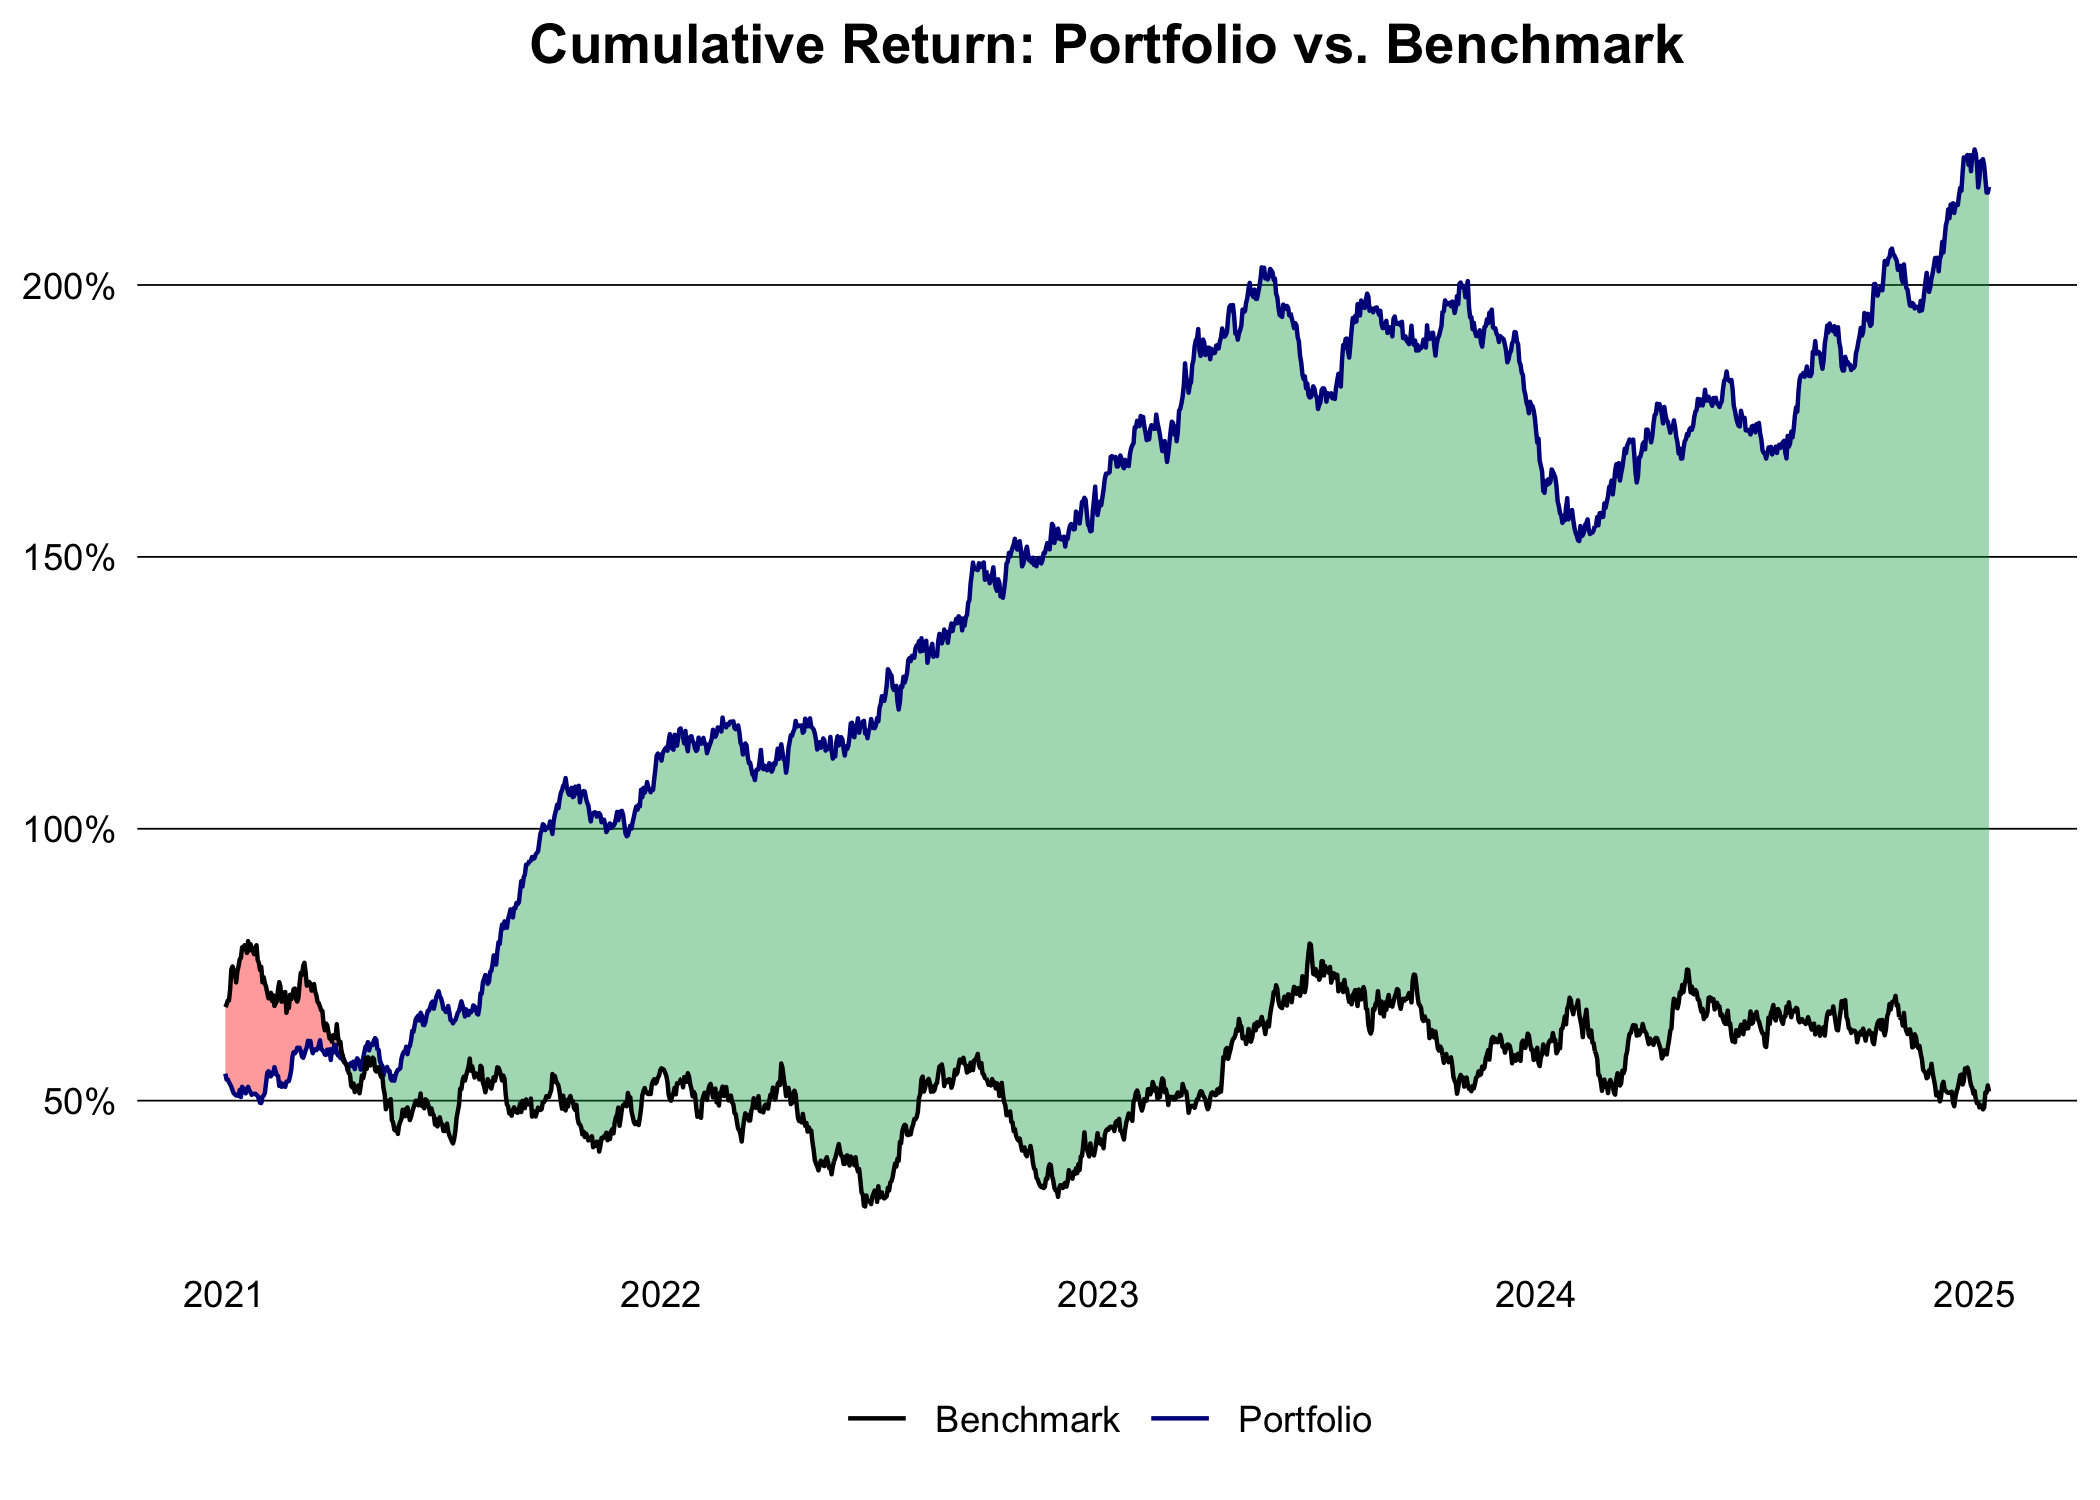
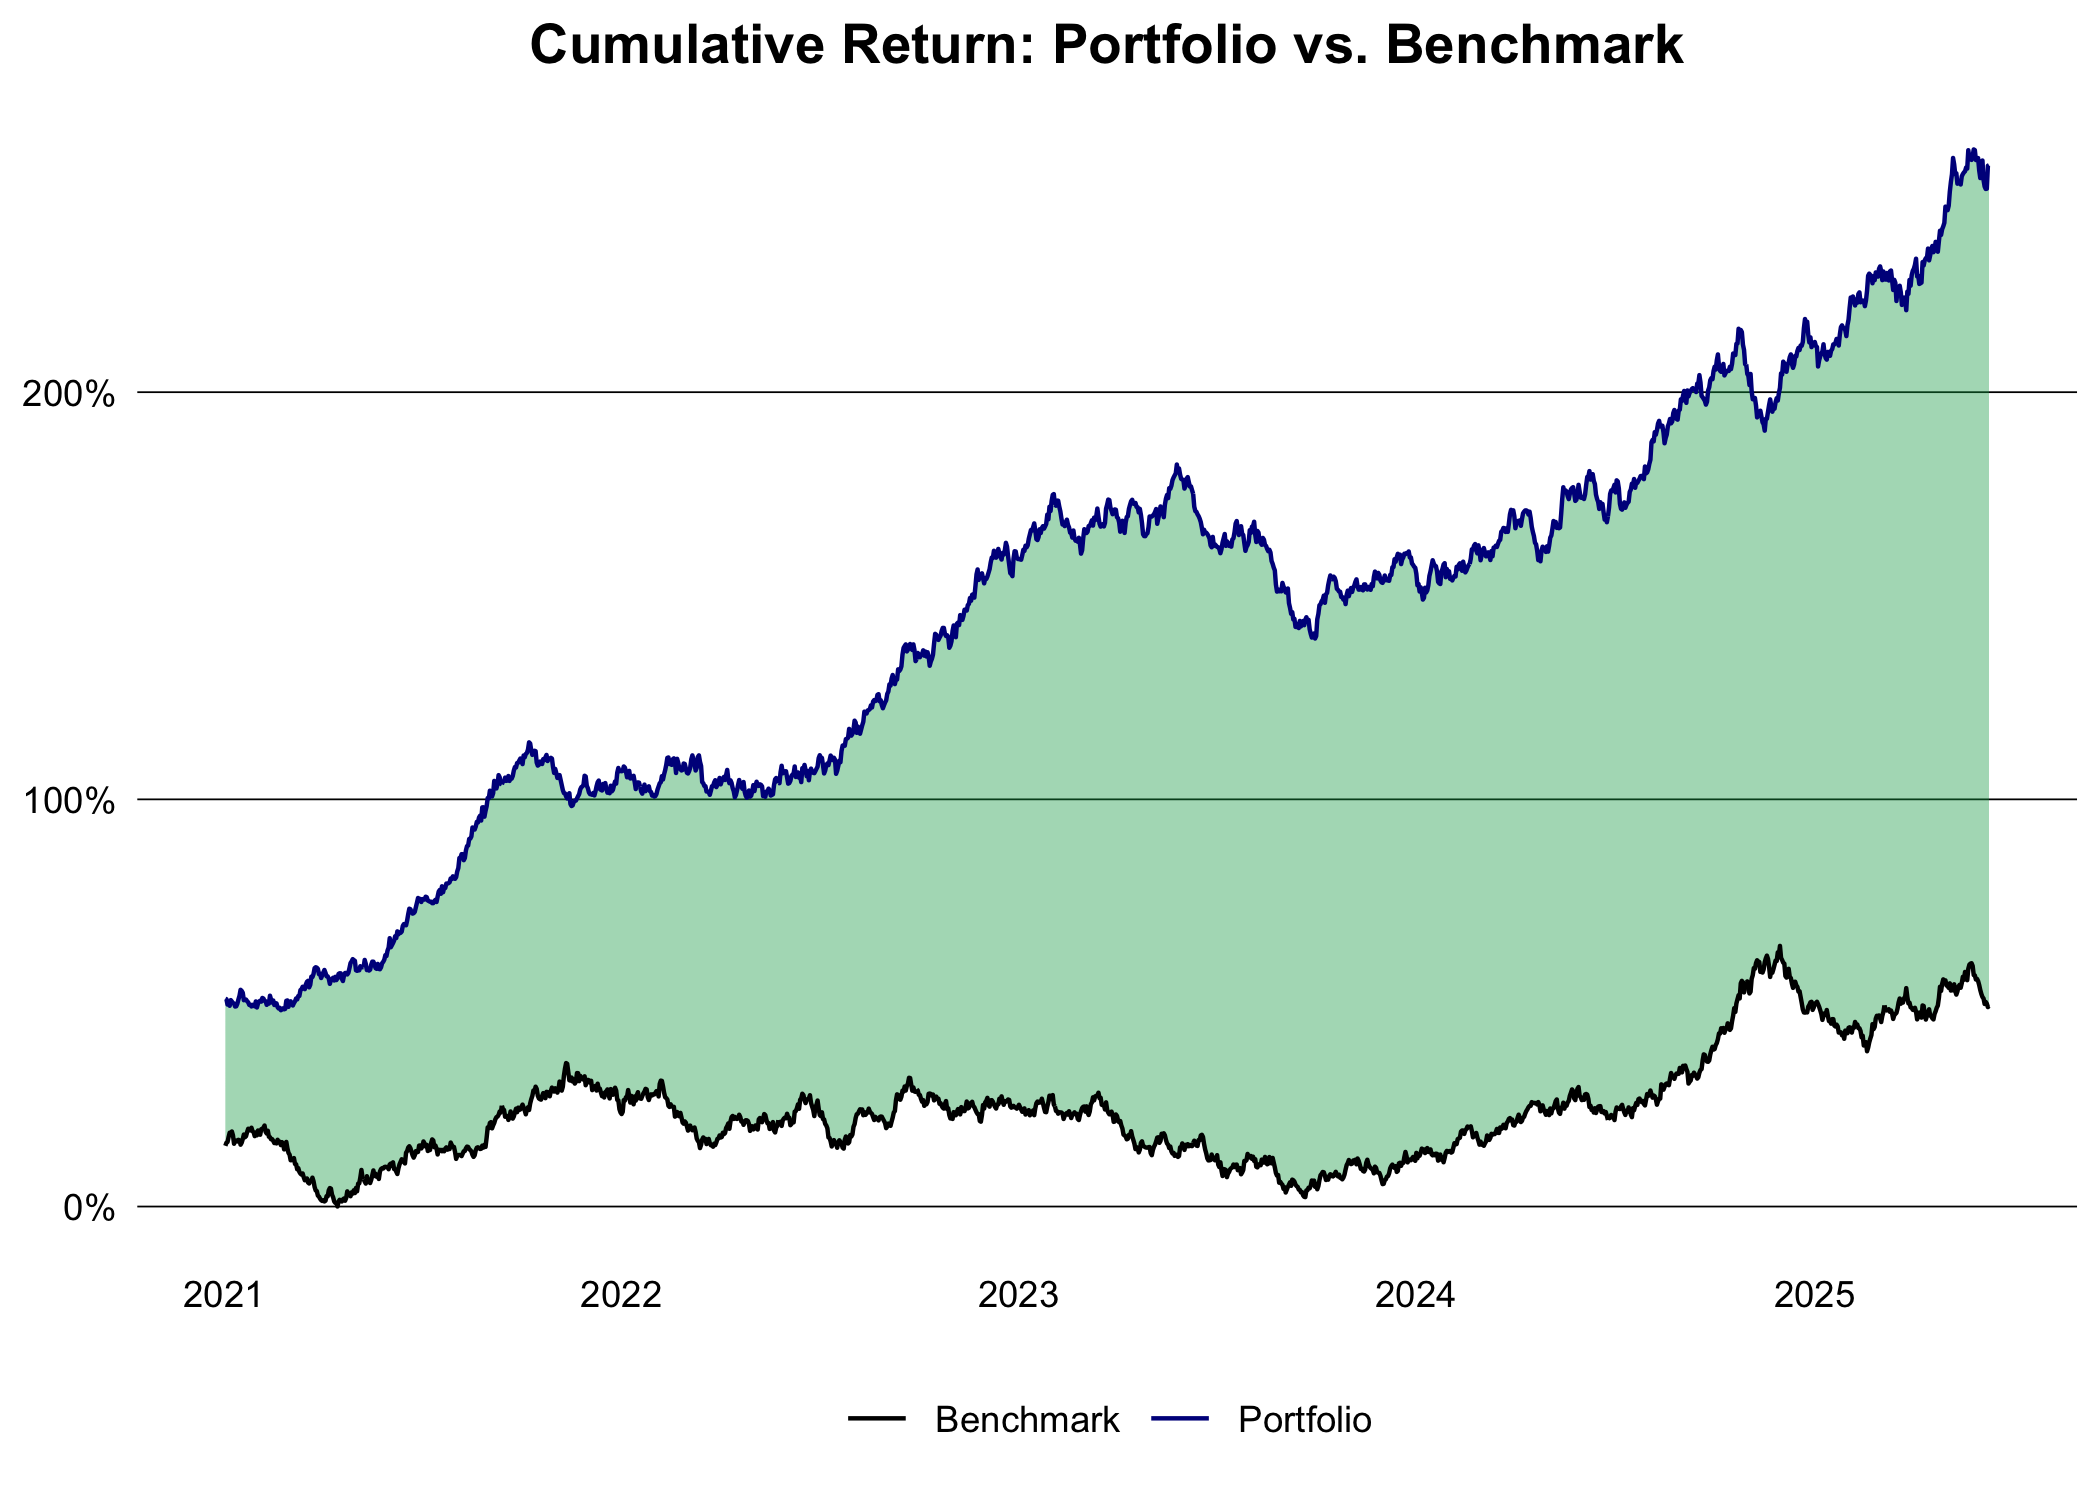
chore: clean-up

diff --git a/README.md b/README.md
@@ -21,7 +21,7 @@ Generate some fake stock prices for a few tickers.
 set.seed(1994)
 
 generate_prices <- function(ticker, start_date, end_date) {
-  dates <- seq.Date(as.Date(start_date), as.Date(end_date), by = "days")
+  dates <- seq(as.Date(start_date), as.Date(end_date), by = "1 day")
   n <- length(dates)
   prices <- cumprod(1 + rnorm(n, mean = 0.0005, sd = 0.01)) * 100
   data.table(
@@ -32,7 +32,7 @@ generate_prices <- function(ticker, start_date, end_date) {
 }
 
 generate_benchmark <- function(start_date, end_date) {
-  dates <- seq.Date(as.Date(start_date), as.Date(end_date), by = "days")
+  dates <- seq(as.Date(start_date), as.Date(end_date), by = "1 day")
   n <- length(dates)
   prices <- cumprod(1 + rnorm(n, mean = 0.0003, sd = 0.008)) * 3000
   data.table(
@@ -46,7 +46,7 @@ ticker <- c("AAPL", "GOOGL", "MSFT", "AMZN")
 start_date <- "2015-01-01"
 end_date <- Sys.Date()
 
-dt <- lapply(ticker, generate_prices, start_date, end_date) |> rbindlist()
+dt <- rbindlist(lapply(ticker, generate_prices, start_date, end_date))
 alloc <- data.table(
   ticker = ticker,
   weight = c(0.4, 0.3, 0.2, 0.1),
@@ -152,12 +152,12 @@ head(port_ret_year)
 
         year         ret
        <int>       <num>
-    1:  2015  0.21730363
-    2:  2016  0.14672385
-    3:  2017  0.08923894
-    4:  2018  0.09766598
-    5:  2019 -0.21240290
-    6:  2020  0.16825878
+    1:  2015  0.11197525
+    2:  2016  0.23505665
+    3:  2017  0.09765000
+    4:  2018 -0.04271348
+    5:  2019 -0.14353103
+    6:  2020  0.21490787
 
 #### Compare performance with a benchmark
 
@@ -174,7 +174,7 @@ port <- dt |>
   rbind(bmr[, .(ticker, date, ret)]) |>
   setorder(ticker, date) |>
   _[, cum_ret := cumprod(1 + ret) - 1, by = ticker] |>
-  _[, ticker := fifelse(ticker == "Portfolio", ticker, "Benchmark")]
+  _[, ticker := replace(ticker, ticker != "Portfolio", "Benchmark")]
 ```
 
 Compare the portfolio with the benchmark performance:
@@ -246,10 +246,14 @@ perf |>
 
 ``` r
 perf |>
-  _[date >= "2022-01-10", .(
-    benchmark = last(benchmark) - first(benchmark),
-    portfolio = last(portfolio) - first(portfolio)
-  ), by = .(year(date))]
+  _[
+    date >= "2022-01-10",
+    .(
+      benchmark = last(benchmark) - first(benchmark),
+      portfolio = last(portfolio) - first(portfolio)
+    ),
+    by = .(year(date))
+  ]
 ```
 
 #### Analyse the portfolio exposure
@@ -297,7 +301,7 @@ port_risk <- as.numeric(sqrt(t(wgt) %*% cov_mat %*% wgt))
 port_risk
 ```
 
-    [1] 0.005584329
+    [1] 0.00541362
 
 #### Drawdown
 
@@ -343,14 +347,14 @@ drawdown <- dt |>
 head(drawdown)
 ```
 
-             date         wret     cum_ret     drawdown
-           <Date>        <num>       <num>        <num>
-    1: 2015-01-02  0.003214273 0.003214273  0.000000000
-    2: 2015-01-03  0.013832220 0.017090954  0.000000000
-    3: 2015-01-04  0.005712519 0.022901105  0.000000000
-    4: 2015-01-05  0.004228235 0.027226172  0.000000000
-    5: 2015-01-06 -0.006150852 0.020907856 -0.006318316
-    6: 2015-01-07  0.003680844 0.024665659 -0.002560513
+             date          wret      cum_ret      drawdown
+           <Date>         <num>        <num>         <num>
+    1: 2015-01-02 -0.0028002676 -0.002800268  0.0000000000
+    2: 2015-01-03  0.0094504585  0.006623727  0.0000000000
+    3: 2015-01-04 -0.0028169791  0.003788089 -0.0028356380
+    4: 2015-01-05  0.0023533344  0.006150338 -0.0004733889
+    5: 2015-01-06 -0.0054367017  0.000680199 -0.0059435281
+    6: 2015-01-07  0.0007667473  0.001447468 -0.0051762593
 
 ``` r
 drawdown[drawdown < 0, .(min_drawdown = min(drawdown), avg_drawdown = mean(drawdown))]
@@ -358,7 +362,7 @@ drawdown[drawdown < 0, .(min_drawdown = min(drawdown), avg_drawdown = mean(drawd
 
        min_drawdown avg_drawdown
               <num>        <num>
-    1:   -0.5742111   -0.1455153
+    1:   -0.4676764   -0.1229879
 
 #### TODO:
 
